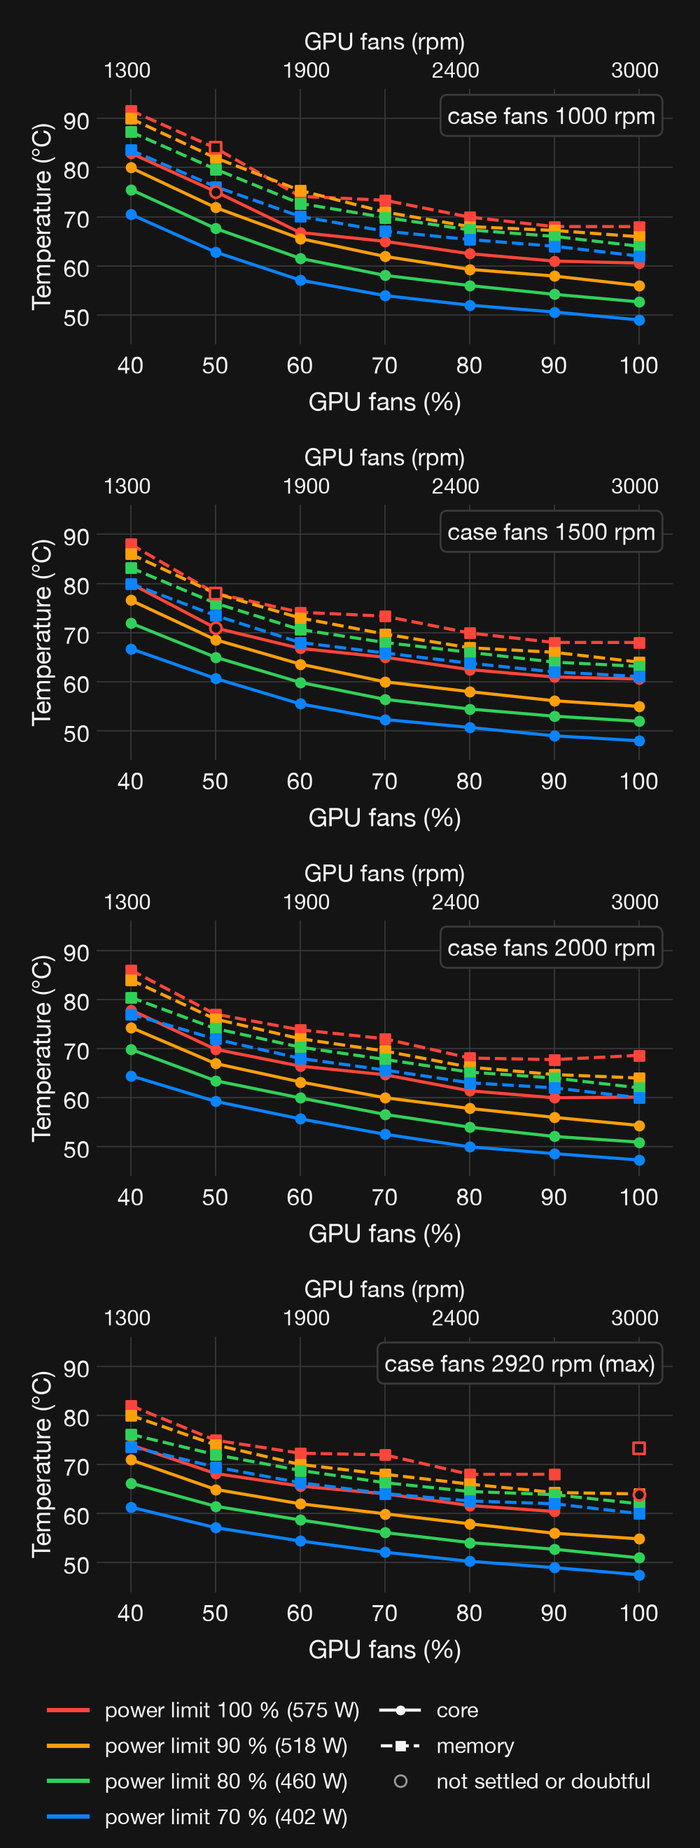
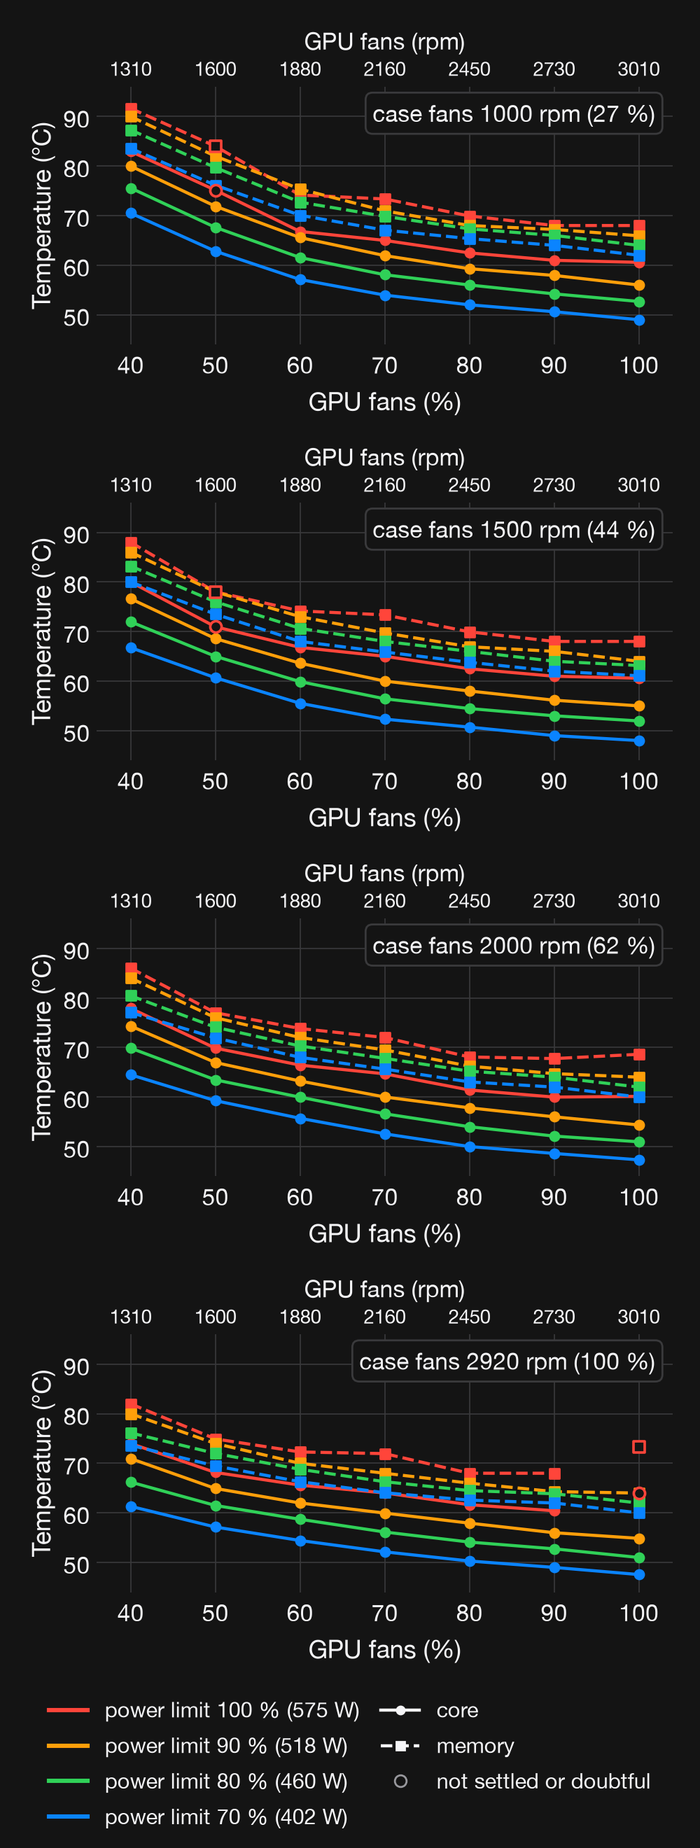
Article figures and models after critic fixes (2026-10-21): static refit on same-day final table with bootstrap CIs, dynamic-model CIs, figure updates

diff --git a/scripts/fig_core_model.py b/scripts/fig_core_model.py
@@ -1,8 +1,10 @@
-"""Article figures for the core model (second run, 2026-10-21), fig_export.py style (light/dark/phone, webp).
-A) core vs GPU fan rpm at case 1500 rpm, points + model per power limit; B) core vs case fan rpm at GPU fans 40 %.
-Model (whole grid, final.csv without unsettled points): T = Tin + θ0 + P·[r∞ + k·(N/1000)^(−m)·(C/1500)^(−q)].
+"""Static core model (second run, 2026-10-21) — fit, bootstrap intervals and article figures (fig_export.py style).
+Data: final.csv core_c_max (the published final table). Fitted on the 88 same-day points: the two unsettled 575 W
+points and the 22 575 W rows taken from the first-run night grid are left out (they were measured at other case speeds).
+Model (9): T = Tin + θ0 + P·[r∞ + k·(N/1000)^(−m)·(C/1500)^(−q)].
+A) core vs GPU fan rpm at case 1500 rpm; B) core vs case fan rpm at GPU fans 40 %. Also the °C per 100 W table from (9) and (10).
 Usage: fig_core_model.py final.csv outdir"""
-import csv, sys, json
+import csv, sys, json, os
 from pathlib import Path
 import numpy as np, matplotlib
 matplotlib.use("Agg")
@@ -11,45 +13,59 @@ from PIL import Image
 
 src, out = Path(sys.argv[1]), Path(sys.argv[2]); out.mkdir(parents=True, exist_ok=True)
 allr = list(csv.DictReader(open(src)))
-rs = [r for r in allr if "UNSETTLED" not in r["source"]]
-f = lambda k, R=rs: np.array([float(r[k]) for r in R])
-N, P, T, C = f("cardA_fan_rpm"), f("power_w_sum"), f("cardA_core_c"), f("case_rpm")
-Tin = np.array([float(r["intake_c"] or 19.1) for r in rs]); y = T - Tin
-CT = np.array([r["case_rpm_target"] for r in rs]); G = np.array([int(r["gpu_pct"]) for r in rs]); PLs = np.array([int(r["pl_pct"]) for r in rs])
+uns = lambda r: "UNSETTLED" in r["source"]; night = lambda r: r["source"].startswith("night")
+f = lambda k, R: np.array([float(r[k]) for r in R])
+def arrays(R, key="core_c_max"):
+    return dict(N=f("cardA_fan_rpm", R), P=f("power_w_sum", R), C=f("case_rpm", R), T=f(key, R), Tin=f("intake_c", R),
+                CT=np.array([r["case_rpm_target"] for r in R]), G=np.array([int(r["gpu_pct"]) for r in R]), PL=np.array([int(r["pl_pct"]) for r in R]))
+day = [r for r in allr if not uns(r) and not night(r)]; A = arrays(day)
 
-def D(n_, c_, p_, m_, q_): return np.column_stack([np.ones_like(p_), p_, p_ * (n_ / 1000) ** (-m_) * (c_ / 1500) ** (-q_)])
-def fit(mask, qgrid):
+def X(n_, c_, p_, m_, q_): return np.column_stack([np.ones_like(p_), p_, p_ * (n_ / 1000) ** (-m_) * (c_ / 1500) ** (-q_)])
+MG, QG = np.arange(0.8, 2.6001, 0.02), np.arange(0.0, 0.8001, 0.02)
+def fit(a, idx=None, qg=QG):
+    idx = np.arange(len(a["T"])) if idx is None else idx
+    N, C, P, y = a["N"][idx], a["C"][idx], a["P"][idx], (a["T"] - a["Tin"])[idx]
     best = None
-    for m_ in np.arange(0.5, 3.001, 0.02):
-        for q_ in qgrid:
-            X = D(N[mask], C[mask], P[mask], m_, q_); c, *_ = np.linalg.lstsq(X, y[mask], rcond=None)
-            e = np.sum((y[mask] - X @ c) ** 2)
+    for m_ in MG:
+        for q_ in qg:
+            Xm = X(N, C, P, m_, q_); c, *_ = np.linalg.lstsq(Xm, y, rcond=None); e = np.sum((y - Xm @ c) ** 2)
             if best is None or e < best[0]: best = (e, c, m_, q_)
-    _, c, m_, q_ = best; res = y[mask] - D(N[mask], C[mask], P[mask], m_, q_) @ c
-    return dict(th0=c[0], rinf=c[1], k=c[2], m=m_, q=q_, n=int(mask.sum()), rmse=float(np.sqrt(np.mean(res ** 2))),
-                r2=float(1 - np.sum(res ** 2) / np.sum((T[mask] - T[mask].mean()) ** 2)), maxres=float(np.abs(res).max()))
-full = fit(np.ones(len(T), bool), np.arange(0, 1.001, 0.02))
-c15 = fit(CT == "1500", [0.0])
-print("full", {k: round(v, 4) for k, v in full.items()}); print("1500", {k: round(v, 4) for k, v in c15.items()})
+    _, c, m_, q_ = best; r = y - X(N, C, P, m_, q_) @ c; T = a["T"][idx]
+    return dict(th0=float(c[0]), rinf=float(c[1]), k=float(c[2]), m=float(m_), q=float(q_), n=int(len(idx)), rmse=float(np.sqrt(np.mean(r ** 2))),
+                r2=float(1 - np.sum(r ** 2) / np.sum((T - T.mean()) ** 2)), maxres=float(np.abs(r).max()))
 def pred(p, n_, c_, pw, tin):
     n_, c_, pw = np.broadcast_arrays(*(np.atleast_1d(np.asarray(v, float)) for v in (n_, c_, pw)))
-    return tin + D(n_, c_, pw, p["m"], p["q"]) @ np.array([p["th0"], p["rinf"], p["k"]])
-R15 = lambda n_: c15["rinf"] + c15["k"] * (n_ / 1000) ** (-c15["m"])
-gp = sorted({int(r["gpu_pct"]) for r in allr}); grpm = [np.mean([float(r["cardA_fan_rpm"]) for r in allr if int(r["gpu_pct"]) == g]) for g in gp]
-print("°C per 100 W @1500:", {g: round(R15(n) * 100, 1) for g, n in zip(gp, grpm)})
-# log-linear alternative at case 1500
-m15 = CT == "1500"; X = np.column_stack([np.ones(m15.sum()), P[m15], np.log(N[m15]), P[m15] * np.log(N[m15])]); b, *_ = np.linalg.lstsq(X, T[m15], rcond=None)
-print("loglin RMSE", round(float(np.sqrt(np.mean((T[m15] - X @ b) ** 2))), 2))
-json.dump(dict(full=full, case1500=c15), open(out / "core-model.json", "w"), indent=1)
-tin0 = float(np.mean(Tin))
-# case % ↔ rpm from the controller output
+    return tin + X(n_, c_, pw, p["m"], p["q"]) @ np.array([p["th0"], p["rinf"], p["k"]])
+
+full = fit(A)
+rng = np.random.default_rng(1); boots = [fit(A, rng.integers(0, len(A["T"]), len(A["T"]))) for _ in range(300)]
+ci = {k: [float(np.percentile([b[k] for b in boots], 2.5)), float(np.percentile([b[k] for b in boots], 97.5))] for k in ("th0", "rinf", "k", "m", "q")}
+sum575 = [b["th0"] + 575 * b["rinf"] for b in boots]
+m15 = A["CT"] == "1500"; c15 = fit(A, np.where(m15)[0], [0.0])
+Xl = np.column_stack([np.ones(m15.sum()), A["P"][m15], np.log(A["N"][m15]), A["P"][m15] * np.log(A["N"][m15])]); b, *_ = np.linalg.lstsq(Xl, A["T"][m15], rcond=None)
+loglin = float(np.sqrt(np.mean((A["T"][m15] - Xl @ b) ** 2)))
+# comparison fits
+A110 = arrays([r for r in allr if not uns(r)]); A110raw = arrays([r for r in allr if not uns(r)], "cardA_core_c")
+f110, f110raw = fit(A110), fit(A110raw)
+# residuals at GPU 40 %, 575 W
+res40 = {r["case_rpm_target"]: float(float(r["core_c_max"]) - pred(full, float(r["cardA_fan_rpm"]), float(r["case_rpm"]), float(r["power_w_sum"]), float(r["intake_c"]))[0])
+         for r in day if r["gpu_pct"] == "40" and r["pl_pct"] == "100"}
+gp = sorted({int(r["gpu_pct"]) for r in allr}); grpm = [float(np.mean([float(r["cardA_fan_rpm"]) for r in allr if int(r["gpu_pct"]) == g])) for g in gp]
+# °C per 100 W at case 1500: static (9) and dynamic (10)
+J = json.load(open(os.path.join(os.path.dirname(os.path.abspath(__file__)), "results-2026-10-21", "dyn-model.json")))["M2-pow"]["params"]
+Rd = lambda n_, c_=1500: J["Rjs"] + J["ra"] + J["k"] * (np.sqrt(n_ ** 2 + 300 ** 2) / 1000) ** -J["m"] * (c_ / 1500) ** -J["q"]
+Rs = lambda n_, c_=1500: full["rinf"] + full["k"] * (n_ / 1000) ** -full["m"] * (c_ / 1500) ** -full["q"]
+per100 = {g: dict(rpm=round(n, -1), static=round(float(Rs(n)) * 100, 1), dynamic=round(float(Rd(n)) * 100, 1)) for g, n in zip(gp, grpm)}
+summary = dict(full=full, ci95=ci, th0_plus_575rinf_ci=[float(np.percentile(sum575, 2.5)), float(np.percentile(sum575, 97.5))], case1500=c15, loglin_case1500_rmse=loglin,
+               all110_final=f110, all110_raw60s=f110raw, res_gpu40_575=res40, per100W_case1500=per100)
+json.dump(summary, open(out / "core-model.json", "w"), indent=1)
+print(json.dumps(summary, indent=1))
+
 cpm = {}
 for r in allr: cpm.setdefault(r["case_rpm_target"], []).append((float(r["case_rpm"]), float(r["case_out_pct"])))
 cr = sorted((np.mean([a for a, _ in v]), np.mean([b for _, b in v])) for v in cpm.values()); CR, CP = [a for a, _ in cr], [b for _, b in cr]
-print("case map", [(round(a), round(b, 1)) for a, b in cr])
-
 THEMES = {"light": dict(bg="#ffffff", fg="#1d1d1f", grid="#d9d9de", dim="#86868b"), "dark": dict(bg="#141414", fg="#f5f5f7", grid="#3a3a3c", dim="#98989d")}
-PL = {100: ("#ff453a", 575), 90: ("#ff9f0a", 518), 80: ("#30d158", 460), 70: ("#0a84ff", 402)}
+PLC = {100: ("#ff453a", 575), 90: ("#ff9f0a", 518), 80: ("#30d158", 460), 70: ("#0a84ff", 402)}
 def lin(xs, ys):
     k_ = (ys[-1] - ys[0]) / (xs[-1] - xs[0])
     return lambda v: np.interp(v, xs, ys) + (np.asarray(v) - np.clip(v, xs[0], xs[-1])) * k_
@@ -61,24 +77,27 @@ def style(ax, th, fs):
 def save(fig, th, name):
     fig.savefig(out / f"{name}.png", dpi=200, facecolor=th["bg"]); plt.close(fig)
     im = Image.open(out / f"{name}.png").convert("RGB"); im.save(out / f"{name}.webp", "WEBP", quality=86, method=6); print(name, im.size)
+NI = arrays([r for r in allr if night(r)]); tin0 = float(np.mean(A["Tin"]))
 
 def figure(which, theme, phone):
     th = THEMES[theme]; fs = 13 if phone else 12
     plt.rcParams.update({"font.family": "sans-serif", "font.sans-serif": ["Helvetica Neue", "Arial", "DejaVu Sans"], "font.size": fs})
-    fig, ax = plt.subplots(figsize=(5, 6.2) if phone else (8, 5.4)); fig.patch.set_facecolor(th["bg"]); style(ax, th, fs)
-    for pl, (col, w) in PL.items():
+    fig, ax = plt.subplots(figsize=(5, 6.4) if phone else (8, 5.6)); fig.patch.set_facecolor(th["bg"]); style(ax, th, fs)
+    for pl, (col, w) in PLC.items():
         if which == "a":
-            k_ = (CT == "1500") & (PLs == pl); xx = np.linspace(1250, 3080, 200)
-            ax.plot(xx, pred(c15, xx, 1500, w, tin0), c=col, lw=1.8, zorder=3, label=f"{pl} % ({w} W)")
-            ax.scatter(N[k_], T[k_], s=30 if phone else 34, color=col, edgecolors=th["bg"], linewidths=0.8, zorder=4)
+            k_ = (A["CT"] == "1500") & (A["PL"] == pl); xx = np.linspace(1250, 3080, 200)
+            ax.plot(xx, pred(full, xx, 1500, w, tin0), c=col, lw=1.8, zorder=3, label=f"{pl} % ({w} W)")
+            ax.scatter(A["N"][k_], A["T"][k_], s=30 if phone else 34, color=col, edgecolors=th["bg"], linewidths=0.8, zorder=4)
+            kn = (NI["CT"] == "1500") & (NI["PL"] == pl)
+            if kn.any(): ax.scatter(NI["N"][kn], NI["T"][kn], s=34 if phone else 38, facecolors=th["bg"], edgecolors=col, linewidths=1.3, zorder=5)
         else:
-            k_ = (G == 40) & (PLs == pl); xx = np.linspace(950, 3000, 200)
+            k_ = (A["G"] == 40) & (A["PL"] == pl); xx = np.linspace(950, 3000, 200)
             ax.plot(xx, pred(full, grpm[0], xx, w, tin0), c=col, lw=1.8, zorder=3, label=f"{pl} % ({w} W)")
-            ax.scatter(C[k_], T[k_], s=30 if phone else 34, color=col, edgecolors=th["bg"], linewidths=0.8, zorder=4)
+            ax.scatter(A["C"][k_], A["T"][k_], s=30 if phone else 34, color=col, edgecolors=th["bg"], linewidths=0.8, zorder=4)
     if which == "a":
         ax.set_xlabel("GPU fans (rpm)"); ax.set_xlim(1200, 3120)
         top = ax.secondary_xaxis("top", functions=(lin(grpm, gp), lin(gp, grpm))); top.set_xticks(range(40, 101, 10)); top.set_xlabel("GPU fans (%)", color=th["fg"])
-        note = "case fans 1500 rpm"
+        note = f"case fans 1500 rpm ({CP[1]:.0f} %)"
     else:
         ax.set_xlabel("Case fans (rpm)"); ax.set_xlim(900, 3050); ax.set_xticks([1000, 1500, 2000, 2500, 2920])
         top = ax.secondary_xaxis("top", functions=(lin(CR, CP), lin(CP, CR))); top.set_xticks([round(v) for v in CP]); top.set_xlabel("Case fans (%)", color=th["fg"])
@@ -88,7 +107,8 @@ def figure(which, theme, phone):
     ax.set_ylabel("Core (°C)")
     ax.text(0.98, 0.96, note, transform=ax.transAxes, va="top", ha="right", color=th["fg"], fontsize=fs - 1, bbox=dict(boxstyle="round,pad=0.3", fc=th["bg"], ec=th["grid"]))
     h, l = ax.get_legend_handles_labels()
-    h += [plt.Line2D([], [], ls="none", marker="o", color=th["dim"])]; l += ["measured"]
+    h += [plt.Line2D([], [], ls="none", marker="o", color=th["dim"])]; l += ["measured, fitted"]
+    if which == "a": h += [plt.Line2D([], [], ls="none", marker="o", mfc=th["bg"], mec=th["dim"])]; l += ["first-run value, not fitted"]
     h += [plt.Line2D([], [], c=th["dim"], lw=1.8)]; l += ["model, equation (9)"]
     ax.legend(h, l, title="Power limit", title_fontsize=fs - 2, loc="upper center", bbox_to_anchor=(0.5, -0.13), ncol=2 if phone else 3, fontsize=fs - 2, frameon=False, labelcolor=th["fg"]).get_title().set_color(th["fg"])
     fig.tight_layout()

diff --git a/scripts/fig_dyn.py b/scripts/fig_dyn.py
@@ -1,13 +1,14 @@
 """Article figures for the dynamic core model (fig_export.py style, light/dark/phone, webp).
 Uses dyn_model.py functions and the fitted parameters in results-2026-10-21/dyn-model.json (no refit).
-A) training run grid1c: core measured vs simulated (2-node and 1-node), GPU fans % + rpm, board power.
-B) held-out runs: core and memory measured vs simulated, free run from the first sample.
-Usage: fig_dyn.py outdir"""
+A) training run grid1c: core measured vs simulated (one thermal mass + die resistance, and one node), inputs below.
+B) held-out runs: core and memory measured vs simulated, free run from the first sample, inputs below each.
+Every fan axis shows % (left) and rpm (right). Usage: fig_dyn.py outdir"""
 import json, os, sys
 from pathlib import Path
 import numpy as np, matplotlib
 matplotlib.use("Agg")
 import matplotlib.pyplot as plt
+from matplotlib.gridspec import GridSpec, GridSpecFromSubplotSpec
 from PIL import Image
 sys.path.insert(0, os.path.dirname(os.path.abspath(__file__)))
 import dyn_model as dm
@@ -17,65 +18,71 @@ J = json.load(open(os.path.join(dm.OUT, "dyn-model.json")))
 p2, p1, pm = J["M2-pow"]["params"], J["M1-pow"]["params"], J["mem"]["params"]
 train = dm.load("grid1c")
 tests = [dm.load("log-1"), dm.load("grid1d"), dm.load("hold"), dm.load("night-v2d", dm.NIGHT)]
-LABEL = {"log-1": "Manual series by hand", "grid1d": "Repeat of the 40 % points", "hold": "Morning hold series", "night-v2d": "First-run night grid"}
-pct = lambda r: (np.asarray(r) - 1313) / (3012 - 1313) * 60 + 40
-rpm = lambda q: (np.asarray(q) - 40) / 60 * (3012 - 1313) + 1313
+LABEL = {"log-1": "Manual series", "grid1d": "Repeat of the 40 % points", "hold": "Morning series", "night-v2d": "First-run night grid"}
+gpct = lambda r: (np.asarray(r) - 1313) / (3012 - 1313) * 60 + 40
+grpm = lambda q: (np.asarray(q) - 40) / 60 * (3012 - 1313) + 1313
+cpct = lambda r: (np.asarray(r) - 330.4) / 26.13          # case controller duty ↔ rpm, linear fit on the second run
+crpm = lambda q: np.asarray(q) * 26.13 + 330.4
 THEMES = {"light": dict(bg="#ffffff", fg="#1d1d1f", grid="#d9d9de", dim="#86868b", meas="#1d1d1f"),
           "dark": dict(bg="#141414", fg="#f5f5f7", grid="#3a3a3c", dim="#98989d", meas="#f5f5f7")}
-RED, BLUE, PURPLE, GREEN, ORANGE = "#ff453a", "#0a84ff", "#bf5af2", "#30d158", "#ff9f0a"
+RED, BLUE, PURPLE, GREEN, ORANGE, TEAL = "#ff453a", "#0a84ff", "#bf5af2", "#30d158", "#ff9f0a", "#64d2ff"
 rm = lambda a, b: float(np.sqrt(np.mean((np.asarray(a) - b) ** 2)))
 
 def style(ax, th, fs):
     ax.set_facecolor(th["bg"])
     for s in ax.spines.values(): s.set_visible(False)
-    ax.tick_params(colors=th["fg"], labelsize=fs - 1, length=0); ax.xaxis.label.set_color(th["fg"]); ax.yaxis.label.set_color(th["fg"])
+    ax.tick_params(colors=th["fg"], labelsize=fs - 2, length=0); ax.xaxis.label.set_color(th["fg"]); ax.yaxis.label.set_color(th["fg"])
     ax.grid(color=th["grid"], lw=0.6); ax.set_axisbelow(True)
-def leg(ax, th, fs, **kw):
-    ax.legend(fontsize=fs - 2, frameon=False, labelcolor=th["fg"], **kw)
 def save(fig, th, name):
     fig.savefig(out / f"{name}.png", dpi=200, facecolor=th["bg"]); plt.close(fig)
     im = Image.open(out / f"{name}.png").convert("RGB"); im.save(out / f"{name}.webp", "WEBP", quality=86, method=6); print(name, im.size)
-def fanaxis(ax, th, fs, D, tm):
-    ax.plot(tm, pct(D["N"]), color=GREEN, lw=1.0, label="GPU fans")
-    ax.set_ylabel("GPU fans (%)"); ax.set_ylim(25, 105); ax.set_yticks([40, 70, 100])
-    r = ax.secondary_yaxis("right", functions=(rpm, pct)); r.set_yticks([1310, 2160, 3010]); r.set_ylabel("GPU fans (rpm)", color=th["fg"])
-    r.tick_params(colors=th["fg"], labelsize=fs - 2, length=0)
+def fanstrip(ax, th, fs, tm, v, col, name, to_pct, to_rpm, ticks_pct, lim):
+    ax.plot(tm, to_pct(v), color=col, lw=1.0); ax.set_ylim(*lim); ax.set_yticks(ticks_pct); ax.set_ylabel(f"{name}\n(%)", fontsize=fs - 2)
+    r = ax.secondary_yaxis("right", functions=(to_rpm, to_pct)); r.set_yticks([round(float(to_rpm(t)), -1) for t in ticks_pct])
+    r.set_ylabel("rpm", color=th["fg"], fontsize=fs - 2); r.tick_params(colors=th["fg"], labelsize=fs - 3, length=0)
     for sp in r.spines.values(): sp.set_visible(False)
+def inputs(axs, th, fs, D, tm):
+    a, b, c = axs
+    a.plot(tm, D["P"], color=ORANGE, lw=0.9); a.set_ylabel("Power\n(W)", fontsize=fs - 2); a.set_ylim(0, 640); a.set_yticks([0, 300, 575])
+    fanstrip(b, th, fs, tm, D["N"], GREEN, "GPU fans", gpct, grpm, [40, 100], (10, 110))
+    fanstrip(c, th, fs, tm, D["C"], TEAL, "Case fans", cpct, crpm, [25, 100], (0, 110))
+    for x in (a, b): x.tick_params(labelbottom=False)
+def rc(phone): plt.rcParams.update({"font.family": "sans-serif", "font.sans-serif": ["Helvetica Neue", "Arial", "DejaVu Sans"], "font.size": 13 if phone else 11})
 
 yc2, X2 = dm.core_pred(p2, train, 2); yc1 = dm.core_pred(p1, train, 1)[0]
 def figA(theme, phone):
-    th = THEMES[theme]; fs = 13 if phone else 11
-    plt.rcParams.update({"font.family": "sans-serif", "font.sans-serif": ["Helvetica Neue", "Arial", "DejaVu Sans"], "font.size": fs})
-    fig, ax = plt.subplots(3, 1, figsize=(5, 8.4) if phone else (9, 6.4), sharex=True, gridspec_kw=dict(height_ratios=[3, 1.1, 1.1]))
+    th = THEMES[theme]; fs = 13 if phone else 11; rc(phone)
+    fig, ax = plt.subplots(4, 1, figsize=(5, 9.4) if phone else (9, 7.2), sharex=True, gridspec_kw=dict(height_ratios=[3, 0.9, 0.9, 0.9]))
     fig.patch.set_facecolor(th["bg"]); D = train; tm = D["t"] / 60
     for a in ax: style(a, th, fs)
     ax[0].plot(tm, D["core"], color=th["meas"], lw=0.9, label="measured")
-    ax[0].plot(tm, yc2, color=RED, lw=1.0, label=f"two nodes, RMSE {rm(yc2, D['core']):.2f} K")
+    ax[0].plot(tm, yc2, color=RED, lw=1.0, label=f"thermal mass + die resistance, RMSE {rm(yc2, D['core']):.2f} K")
     ax[0].plot(tm, yc1, color=BLUE, lw=0.8, alpha=0.8, label=f"one node, RMSE {rm(yc1, D['core']):.1f} K")
-    ax[0].set_ylabel("Core (°C)"); leg(ax[0], th, fs, loc="upper right", ncol=1)
-    ax[1].plot(tm, D["P"], color=ORANGE, lw=0.9); ax[1].set_ylabel("Power (W)"); ax[1].set_ylim(350, 620); ax[1].set_yticks([400, 500, 575])
-    fanaxis(ax[2], th, fs, D, tm); ax[2].set_xlabel("Minutes from the start of the second run")
+    ax[0].set_ylabel("Core (°C)"); ax[0].legend(fontsize=fs - 2, frameon=False, labelcolor=th["fg"], loc="upper right")
+    inputs(ax[1:], th, fs, D, tm); ax[3].set_xlabel("Minutes from the start of the second run")
     fig.tight_layout(); fig.align_ylabels(ax)
     save(fig, th, f"gpu-map-2026-10-21-dyn-train{'-phone' if phone else ''}-{theme}")
 
 TP = [(D, *dm.core_pred(p2, D, 2)) for D in tests]
 def figB(theme, phone):
-    th = THEMES[theme]; fs = 13 if phone else 11
-    plt.rcParams.update({"font.family": "sans-serif", "font.sans-serif": ["Helvetica Neue", "Arial", "DejaVu Sans"], "font.size": fs})
-    fig, axs = plt.subplots(4, 1, figsize=(5, 13.6)) if phone else plt.subplots(2, 2, figsize=(10, 7.2))
-    fig.patch.set_facecolor(th["bg"]); axs = np.ravel(axs)
-    for ax, (D, yc, X) in zip(axs, TP):
-        style(ax, th, fs); tm = D["t"] / 60; ym = dm.mem_sim(pm, D, X)
+    th = THEMES[theme]; fs = 13 if phone else 11; rc(phone)
+    fig = plt.figure(figsize=(5, 25) if phone else (11, 11.5)); fig.patch.set_facecolor(th["bg"])
+    gs = GridSpec(4, 1, figure=fig, hspace=0.32) if phone else GridSpec(2, 2, figure=fig, hspace=0.3, wspace=0.32)
+    for i, (D, yc, X) in enumerate(TP):
+        sub = GridSpecFromSubplotSpec(4, 1, subplot_spec=gs[i], height_ratios=[3, 0.8, 0.8, 0.8], hspace=0.12)
+        ax = fig.add_subplot(sub[0]); ins = [fig.add_subplot(sub[j], sharex=ax) for j in (1, 2, 3)]
+        for a in [ax, *ins]: style(a, th, fs)
+        tm = D["t"] / 60; ym = dm.mem_sim(pm, D, X)
         ax.plot(tm, D["mem"], color=th["dim"], lw=0.9); ax.plot(tm, ym, color=PURPLE, lw=1.0)
         ax.plot(tm, D["core"], color=th["meas"], lw=0.9); ax.plot(tm, yc, color=RED, lw=1.0)
-        ax.text(0.02, 0.97, f"{LABEL[D['name']]}\ncore RMSE {rm(yc, D['core']):.2f} K, memory {rm(ym, D['mem']):.1f} K",
-                transform=ax.transAxes, va="top", fontsize=fs - 2, color=th["fg"], bbox=dict(boxstyle="round,pad=0.3", fc=th["bg"], ec=th["grid"]))
-        ax.set_ylabel("°C"); ax.set_xlabel("Minutes from the start of the log")
-        lo, hi = ax.get_ylim(); ax.set_ylim(lo, hi + (hi - lo) * 0.3)
+        ax.set_title(f"{LABEL[D['name']]}" + ("\n" if phone else ": ") + f"core RMSE {rm(yc, D['core']):.2f} K, memory {rm(ym, D['mem']):.1f} K", loc="left", fontsize=fs - 1, color=th["fg"])
+        ax.set_ylabel("°C"); ax.tick_params(labelbottom=False)
+        inputs(ins, th, fs, D, tm); ins[-1].set_xlabel("Minutes from the start of the log")
+        fig.align_ylabels([ax, *ins])
     h = [plt.Line2D([], [], c=th["meas"], lw=1.4), plt.Line2D([], [], c=RED, lw=1.4), plt.Line2D([], [], c=th["dim"], lw=1.4), plt.Line2D([], [], c=PURPLE, lw=1.4)]
     l = ["core, measured", "core, model", "memory, measured", "memory, model"]
     fig.legend(h, l, loc="lower center", ncol=2 if phone else 4, fontsize=fs - 2, frameon=False, labelcolor=th["fg"])
-    fig.tight_layout(rect=(0, 0.05 if phone else 0.06, 1, 1))
+    fig.subplots_adjust(left=0.16 if phone else 0.08, right=0.84 if phone else 0.93, top=0.98 if phone else 0.96, bottom=0.05 if phone else 0.08)
     save(fig, th, f"gpu-map-2026-10-21-dyn-test{'-phone' if phone else ''}-{theme}")
 for t in THEMES:
     for ph in (False, True): figA(t, ph); figB(t, ph)

diff --git a/scripts/fig_run2.py b/scripts/fig_run2.py
@@ -12,7 +12,7 @@ rows = list(csv.DictReader(open(src)))
 THEMES = {"light": dict(bg="#ffffff", fg="#1d1d1f", grid="#d9d9de", dim="#86868b"),
           "dark": dict(bg="#141414", fg="#f5f5f7", grid="#3a3a3c", dim="#98989d")}
 PL = {100: ("#ff453a", 575), 90: ("#ff9f0a", 518), 80: ("#30d158", 460), 70: ("#0a84ff", 402)}
-CASES = [("1000", 1000), ("1500", 1500), ("2000", 2000), ("3000", 2920)]
+CASES = [("1000", 1000, 27), ("1500", 1500, 44), ("2000", 2000, 62), ("3000", 2920, 100)]
 # measured GPU fan rpm per duty (mean over all 112 points)
 rpm = {}
 for r in rows: rpm.setdefault(int(r["gpu_pct"]), []).append(float(r["cardA_fan_rpm"]))
@@ -36,7 +36,7 @@ def fig(theme, phone):
     plt.rcParams.update({"font.family": "sans-serif", "font.sans-serif": ["Helvetica Neue", "Arial", "DejaVu Sans"], "font.size": fs})
     f, axs = plt.subplots(4, 1, figsize=(5, 13.2), sharey=True) if phone else plt.subplots(2, 2, figsize=(8, 6.6), sharey=True)
     f.patch.set_facecolor(th["bg"]); axs = np.ravel(axs)
-    for i, (ax, (tgt, lab)) in enumerate(zip(axs, CASES)):
+    for i, (ax, (tgt, lab, cpct)) in enumerate(zip(axs, CASES)):
         style(f, ax, th, fs)
         for pl, (col, w) in PL.items():
             s = sorted([r for r in rows if r["case_rpm_target"] == tgt and int(r["pl_pct"]) == pl], key=lambda r: int(r["gpu_pct"]))
@@ -46,13 +46,13 @@ def fig(theme, phone):
                 fil = [r for r in ok if not flag(r)]; hol = [r for r in s if flag(r)]
                 ax.scatter([int(r["gpu_pct"]) for r in fil], [float(r[key]) for r in fil], marker=mk, s=18 if not phone else 22, color=col, zorder=4)
                 if hol: ax.scatter([int(r["gpu_pct"]) for r in hol], [float(r[key]) for r in hol], marker=mk, s=30 if not phone else 34, facecolors=th["bg"], edgecolors=col, linewidths=1.3, zorder=5)
-        ax.text(0.97, 0.95, f"case fans {lab} rpm" + (" (max)" if lab == 2920 else ""), transform=ax.transAxes, va="top", ha="right", color=th["fg"], fontsize=fs - 1,
+        ax.text(0.97, 0.95, f"case fans {lab} rpm ({cpct} %)", transform=ax.transAxes, va="top", ha="right", color=th["fg"], fontsize=fs - 1,
                 bbox=dict(boxstyle="round,pad=0.3", fc=th["bg"], ec=th["grid"]))
         ax.set_xlim(36, 104); ax.set_ylim(44, 96); ax.set_yticks(range(50, 91, 10)); ax.set_xticks(range(40, 101, 10))
-        top = ax.secondary_xaxis("top", functions=(p2r, r2p)); top.set_xticks([1300, 1900, 2400, 3000])
-        top.tick_params(colors=th["fg"], labelsize=fs - 2, length=0)
+        top = ax.secondary_xaxis("top", functions=(p2r, r2p)); top.set_xticks([float(p2r(v)) for v in range(40, 101, 10)]); top.set_xticklabels([f"{round(float(p2r(v)), -1):.0f}" for v in range(40, 101, 10)])
+        top.tick_params(colors=th["fg"], labelsize=fs - 3, length=0)
         for sp in top.spines.values(): sp.set_visible(False)
-        if phone or i < 2: top.set_xlabel("GPU fans (rpm)", color=th["fg"], fontsize=fs - 1)
+        top.set_xlabel("GPU fans (rpm)", color=th["fg"], fontsize=fs - 1)
         if phone or i >= 2: ax.set_xlabel("GPU fans (%)")
         if phone or i % 2 == 0: ax.set_ylabel("Temperature (°C)")
     h = [plt.Line2D([], [], c=PL[p][0], lw=2.2) for p in PL]; l = [f"power limit {p} % ({PL[p][1]} W)" for p in PL]

diff --git a/scripts/dyn_model_ci.py b/scripts/dyn_model_ci.py
@@ -1,0 +1,17 @@
+import json,os,sys,time,numpy as np
+sys.path.insert(0,os.getcwd()); import dyn_model as dm
+J=json.load(open('results-2026-10-21/dyn-model.json')); p=dict(J['M2-pow']['params'])
+D=dm.load('grid1c'); t=time.time(); y0=dm.core_pred(p,D,2)[0]; print('sim s',time.time()-t)
+names=['Rjs','ra','Cs','k','m','q','th0']; res0=y0-D['core']; n=len(res0)
+Jm=[]
+for nm in names:
+  h=abs(p[nm])*1e-4 or 1e-4; q=dict(p); q[nm]+=h; Jm.append((dm.core_pred(q,D,2)[0]-y0)/h)
+Jm=np.array(Jm).T; s2=np.sum(res0**2)/(n-len(names))
+cov=s2*np.linalg.inv(Jm.T@Jm)
+rho=np.corrcoef(res0[:-1],res0[1:])[0,1]; neff=n*(1-rho)/(1+rho); infl=np.sqrt(n/neff)
+print('n',n,'rho',rho,'neff',neff)
+out={}
+for i,nm in enumerate(names):
+  se=np.sqrt(cov[i,i])*infl; out[nm]=(p[nm],1.96*se); print(nm,p[nm],'+-',1.96*se)
+sd=np.sqrt(np.diag(cov)); C=cov/np.outer(sd,sd); print('corr Rjs+ra vs th0', C[0,6],C[1,6])
+json.dump({k:[float(a),float(b)] for k,(a,b) in out.items()}|{'rho':float(rho),'neff':float(neff)},open('results-2026-10-21/dyn-model-ci.json','w'),indent=1)
